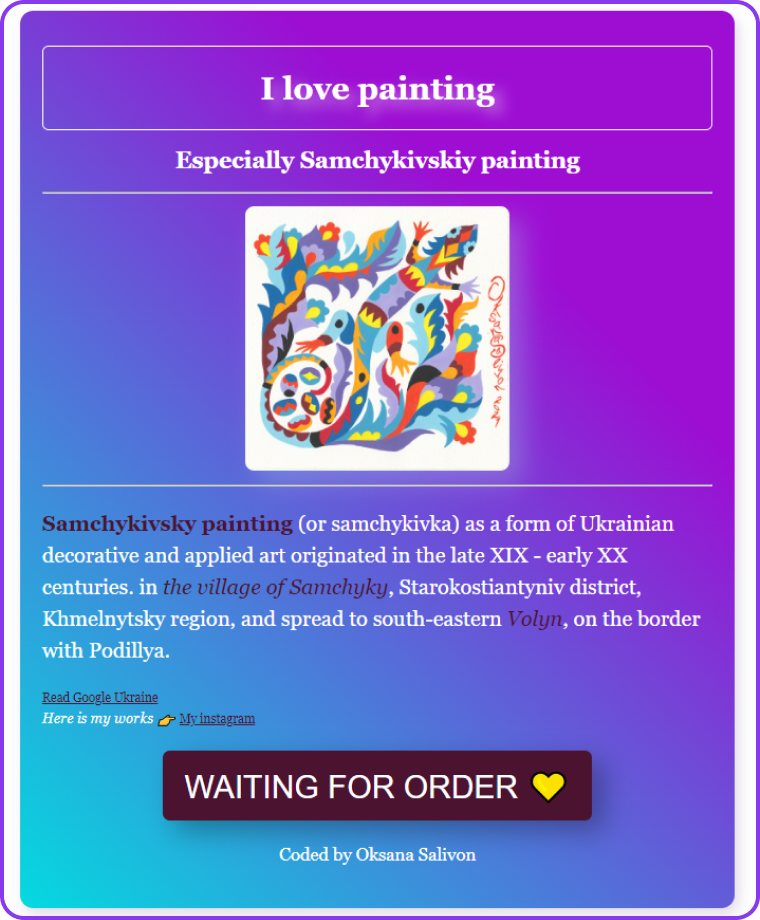
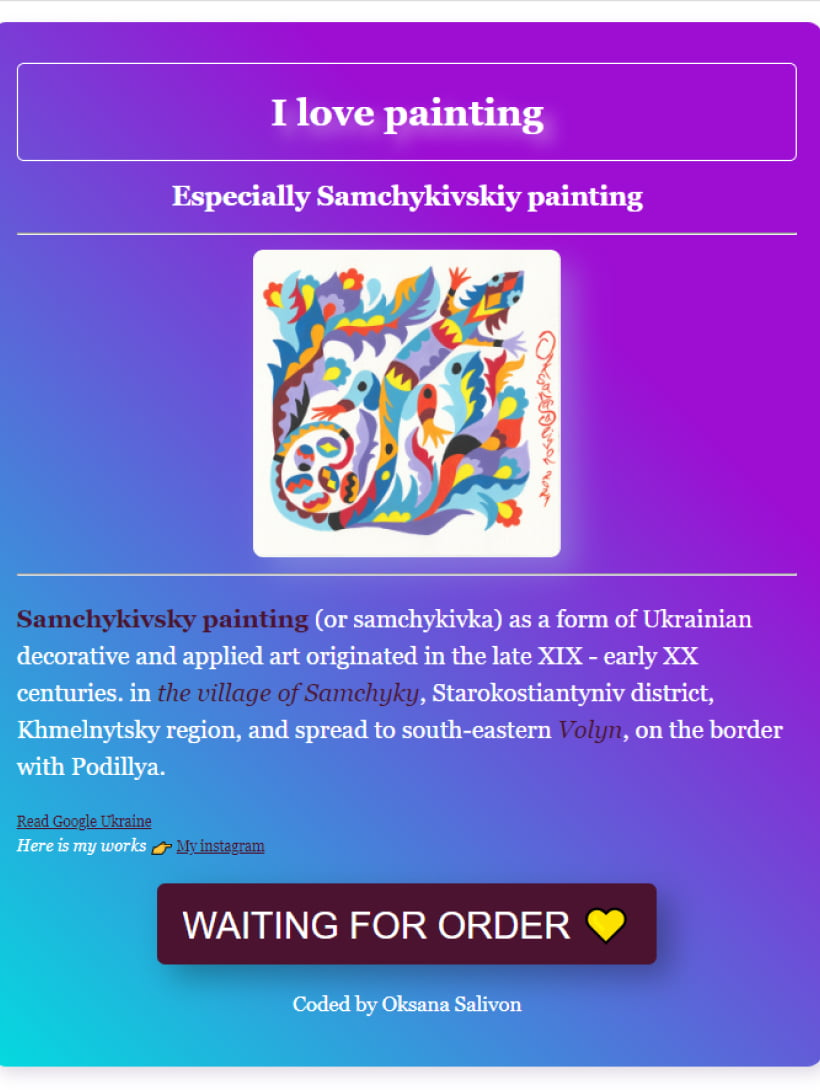
Change photo projects and style

Changed region(s): [[0.0, 0.0, 1.0, 1.0]]

diff --git a/index.html b/index.html
@@ -42,13 +42,20 @@
             </button>
             <div class="nav" data-menu>
                 <ul class="nav-list">
-                    <li class="nav-item nav-item__current"><a href="/index.html" title="Homepage">Home</a></li>
-                    <li class="nav-item"><a href="/about.html" title="About">About me</a></li>
-                    <li class="nav-item"><a href="/index.html" title="Project">Project</a></li>
-                    <li class="nav-item"><a href="/index.html" title="Contact">Contact</a></li>
+                    <li class="nav-item nav-item__current">
+                        <a href="/index.html" title="Homepage">Home</a>
+                    </li>
+                    <li class="nav-item">
+                        <a href="/about.html" title="About">About me</a>
+                    </li>
+                    <li class="nav-item">
+                        <a href="/index.html" title="Project">Project</a>
+                    </li>
+                    <li class="nav-item">
+                        <a href="/index.html" title="Contact">Contact</a>
+                    </li>
                 </ul>
             </div>
-            
         </header>
         <main>
             <div class="container-fluid section-hero">
@@ -75,15 +82,17 @@
                 </p>
             </div>
             <div class="container-fluid section-content content__color-primary">
-                <img
-                    class="img-project-one"
-                    src="./images/project-images/project-love-painting@1x.jpg"
-                    alt="Lizard"
-                    srcset="
-                        ./images/project-images/project-love-painting@2x.jpg 2x
-                    "
-                />
-                <div class="box-project">
+                <div class="img-border">
+                    <img
+                    class="img-photo"
+                        src="./images/project-images/project-love-painting@1x.jpg"
+                        alt="Lizard"
+                        srcset="
+                            ./images/project-images/project-love-painting@2x.jpg 2x
+                        "
+                    />
+                </div>
+                <div class="box-project box-project__one">
                     <h2 class="title-project">I love painting</h2>
                     <p class="text-project">
                         Lorem ipsum dolor sit amet, consectetur adipiscing elit,
@@ -98,13 +107,15 @@
             <div
                 class="container-fluid section-content content-weather content__color-secondary"
             >
+            <div class="img-border">
                 <img
-                    class="img-project-two"
+                class="img-photo"
                     src="./images/project-images/project-weather@1x.jpg"
                     alt="Weather"
                     srcset="./images/project-images/project-weather@2x.jpg 2x"
                 />
-                <div class="box-project">
+            </div>
+                <div class="box-project box-project__two">
                     <h2 class="title-project">Weather</h2>
                     <p class="text-project">
                         Lorem ipsum dolor sit amet, consectetur adipiscing elit,

diff --git a/styles/portfolio.css b/styles/portfolio.css
@@ -214,17 +214,20 @@ a {
 .content__color-secondary {
     background-color: var(--secondary-light-color);
 }
-.img-project-one {
+.img-border {
+    display: flex;
+    justify-content: center;
+    max-width: max-content;
+    height: auto;
     margin: 0 auto;
     margin-bottom: 24px;
-    width: 240px;
-    height: 300px;
+    padding: 8px;
+    border: 3px solid var(--primary-medium-color);
+    border-radius: 12px;
+    background-color: var(--secondary-light-color);
 }
-.img-project-two {
-    margin: 0 auto;
-    margin-bottom: 24px;
-    width: 286px;
-    height: 168px;
+.img-photo {
+    border-radius: 12px;
 }
 .box-project {
     margin: 0 auto;
@@ -326,21 +329,20 @@ a {
     .content-weather {
         flex-direction: row-reverse;
     }
-    .img-project-one {
+    .img-border{
         margin: 0;
-        margin-right: 24px;
-    }
-    .img-project-two {
-        margin: 0;
-        margin-left: 24px;
-        width: 360px;
-        height: 212px;
     }
     .box-project {
         margin: 0;
         padding: 0;
         max-width: 280px;
         text-align: start;
+    }
+    .box-project__one{
+        margin-left: 24px;
+    }
+    .box-project__two{
+        margin-right: 24px;
     }
     .title-project {
         margin-bottom: 16px;
@@ -398,18 +400,14 @@ a {
         padding-top: 60px;
         padding-bottom: 60px;
     }
-    .img-project-one {
-        margin-right: 30px;
-        width: 380px;
-        height: 460px;
-    }
-    .img-project-two {
-        margin-left: 30px;
-        width: 600px;
-        height: 356px;
-    }
     .box-project {
         max-width: 540px;
+    }
+    .box-project__one{
+        margin-left:30px;
+    }
+    .box-project__two{
+        margin-right: 30px;
     }
     .title-project {
         margin-bottom: 24px;

diff --git a/about.html b/about.html
@@ -73,7 +73,7 @@
                     <div class="story-about">
                         <div class="img-border">
                             <img
-                                class="img-about"
+                                class="img-photo"
                                 src="./images/about-images/my-photo@1x.jpg"
                                 alt="Lizard"
                                 srcset="
@@ -107,7 +107,7 @@
                 <div class="box-gallery">
                     <div class="img-border">
                         <img
-                            class="img-gallery"
+                            class="img-photo"
                             src="./images/gallery-images/img-big-lion@1x.jpg"
                             alt="Lizard"
                             srcset="
@@ -117,7 +117,7 @@
                     </div>
                     <div class="img-border">
                         <img
-                            class="img-gallery"
+                            class="img-photo"
                             src="./images/gallery-images/img-horn@1x.jpg"
                             alt="Lizard"
                             srcset="./images/gallery-images/img-horn@2x.jpg 2x"

diff --git a/styles/about.css b/styles/about.css
@@ -13,23 +13,6 @@
 .content-about {
     margin-top: 50px;
 }
-.img-border {
-    display: flex;
-    justify-content: center;
-    max-width: max-content;
-    height: auto;
-    margin: 0 auto;
-    margin-bottom: 24px;
-    padding: 8px;
-    border: 3px solid var(--primary-medium-color);
-    border-radius: 12px;
-    background-color: var(--secondary-light-color);
-}
-.img-about {
-    width: 204px;
-    height: 260px;
-    border-radius: 12px;
-}
 .text-about {
     margin: 0 auto;
     padding: 0 50px;
@@ -46,9 +29,6 @@
 .title-gallery {
     margin-bottom: 30px;
     font-size: 20px;
-}
-.img-gallery {
-    border-radius: 12px;
 }
 
 @media screen and (min-width: 768px) {
@@ -78,10 +58,6 @@
     }
     .content-about {
         margin-top: 64px;
-    }
-    .img-about {
-        width: 292px;
-        height: 380px;
     }
     .story-about {
         display: flex;
@@ -116,10 +92,6 @@
     }
     .content-about {
         margin-top: 88px;
-    }
-    .img-about {
-        width: 380px;
-        height: 494px;
     }
     .text-story {
         margin-left: 30px;
